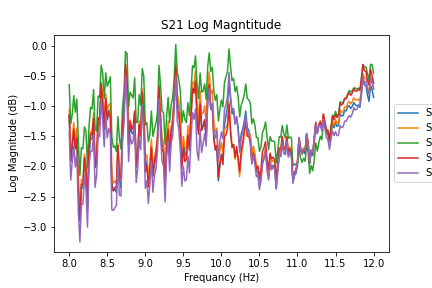
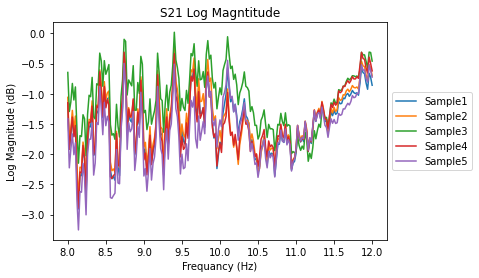
Add files via upload

Changed region(s): [[0.0, 0.0288, 1.0, 0.8633], [0.1204, 0.8633, 0.9028, 0.9784]]

diff --git a/8%CF/Vertical_Build_100%_8%CF/main.py b/8%CF/Vertical_Build_100%_8%CF/main.py
@@ -122,7 +122,7 @@ for i in range(N):
     if i == 16:
         plt.plot(x, mag, label = 'Sample4')
         plt.legend(loc='center left', bbox_to_anchor=(1, 0.5))
-    plt.savefig('S11.png')
+    plt.savefig('S11.png', bbox_inches='tight')
         
     plt.title(name_dict[i])
     fig = plt.figure(11)
@@ -152,7 +152,7 @@ for i in range(N):
         plt.plot(x, SER, label = 'Sample5')
 #        plt.plot(x, SER_Tunnel, label = 'tunnel 4')
         plt.legend(loc='center left', bbox_to_anchor=(1, 0.5))
-        plt.savefig('SER.png')
+    plt.savefig('SER.png', bbox_inches='tight')
     
 for i in range(N):
     if i == 0:
@@ -212,7 +212,7 @@ for i in range(N):
     if i == 17:
         plt.plot(x, mag, label = 'Sample5')
         plt.legend(loc='center left', bbox_to_anchor=(1, 0.5))
-        plt.savefig('S21.png')
+    plt.savefig('S21.png', bbox_inches='tight')
         
 S2 = []    
 for i in range(N):
@@ -277,7 +277,7 @@ for i in range(N):
     if i == 18:
         plt.plot(x, mag, label = 'Sample5')
         plt.legend(loc='center left', bbox_to_anchor=(1, 0.5))
-        plt.savefig('S12.png')
+    plt.savefig('S12.png',  bbox_inches='tight')
     plt.title(name_dict[i])
     fig = plt.figure(9)
     plt.title('Total SE')
@@ -302,11 +302,11 @@ for i in range(N):
     if i == 14:
         plt.plot(x, sample, label = 'Sample4')
         plt.legend(loc='center left', bbox_to_anchor=(1, 0.5))
-    if i == 18:
+#    if i == 18:
 #        plt.plot(x, Total_SE, label = 'Sample4')
-        plt.plot(x, sample, label = 'Sample 5')
-        plt.legend(loc='center left', bbox_to_anchor=(1, 0.5))
-        plt.savefig('Total_SE.png')
+#        plt.plot(x, sample, label = 'Sample 5')
+#        plt.legend(loc='center left', bbox_to_anchor=(1, 0.5))
+    plt.savefig('Total_SE.png',  bbox_inches='tight')
 
 for i in range(N):
     if i == 0:
@@ -367,7 +367,7 @@ for i in range(N):
     if i == 19:
         plt.plot(x, mag, label = 'Sample 5')
         plt.legend(loc='center left', bbox_to_anchor=(1, 0.5))
-        plt.savefig('S22.png')
+    plt.savefig('S22.png', bbox_inches='tight')
 #plt.show()
 
 
@@ -457,7 +457,7 @@ plt.plot(x, sample5, label = 'Sample 5')
 plt.legend(loc='center left', bbox_to_anchor=(1, 0.5))
 #print(S1, 'S11')
 #print(S2, 'S22')
-plt.savefig('SEA.png')
+plt.savefig('SEA.png', bbox_inches='tight')
 
 
 
